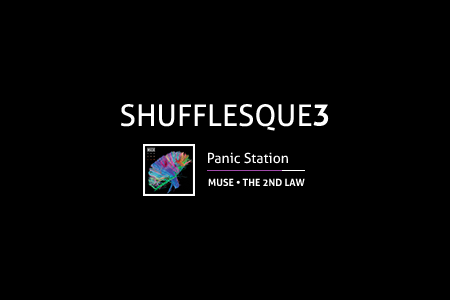
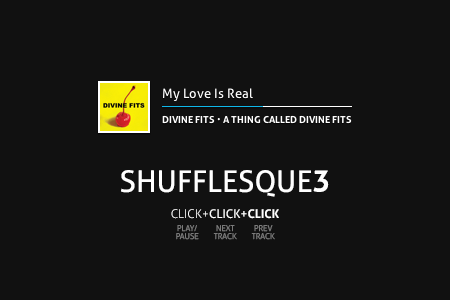
Less exit px for artwork so there's no black bar

Changed region(s): [[0.2178, 0.27, 0.7778, 0.45], [0.2489, 0.48, 0.7467, 0.66], [0.3733, 0.69, 0.6222, 0.81]]

diff --git a/shufflesque3.css b/shufflesque3.css
@@ -51,7 +51,7 @@ body.paused {
   width: 100%;
   height: 100%;
   position: absolute;
-  left: -48px;
+  left: -36px;
   top: 0;
   -webkit-transition-property: left;
   -webkit-transition-duration: .25s;
